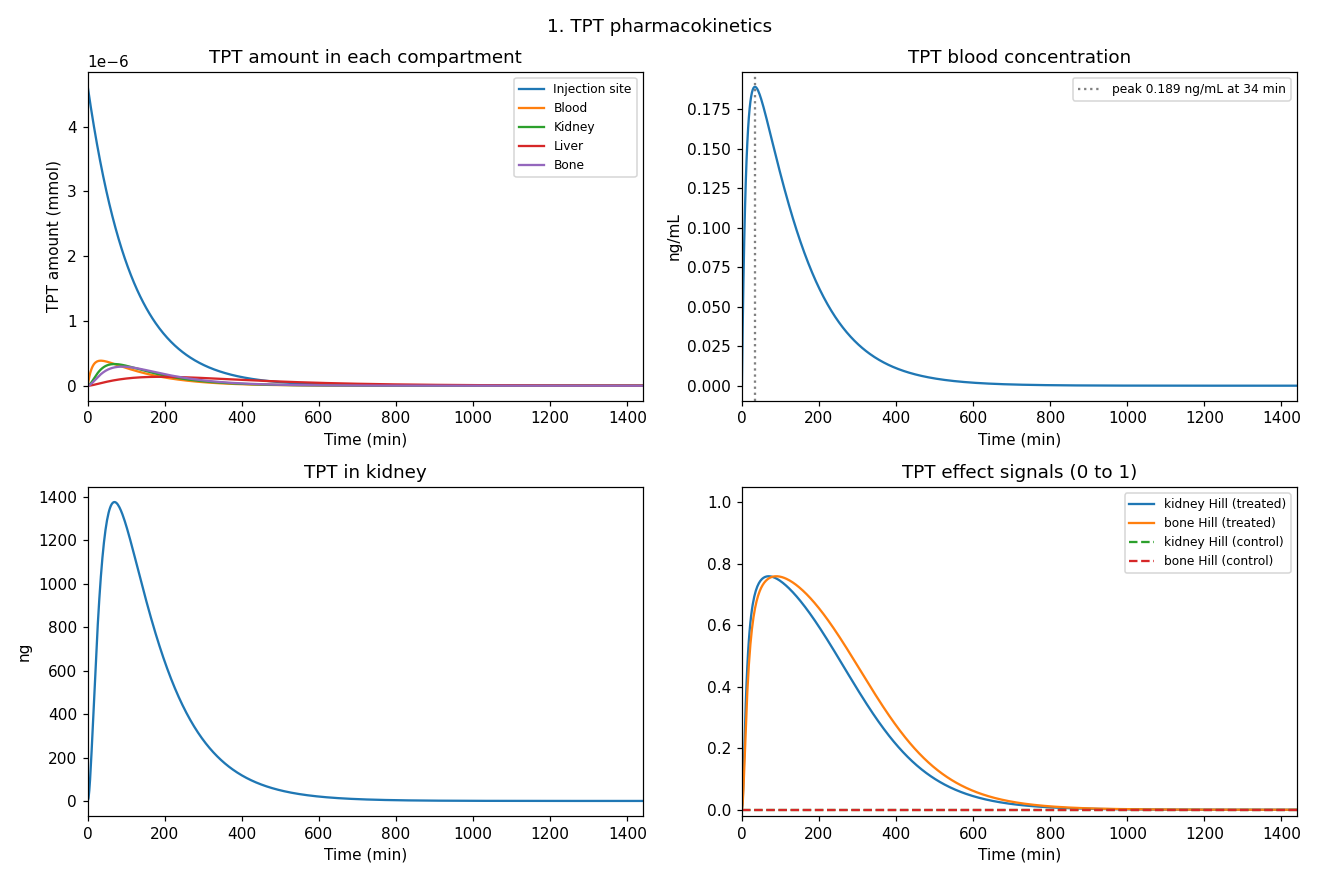
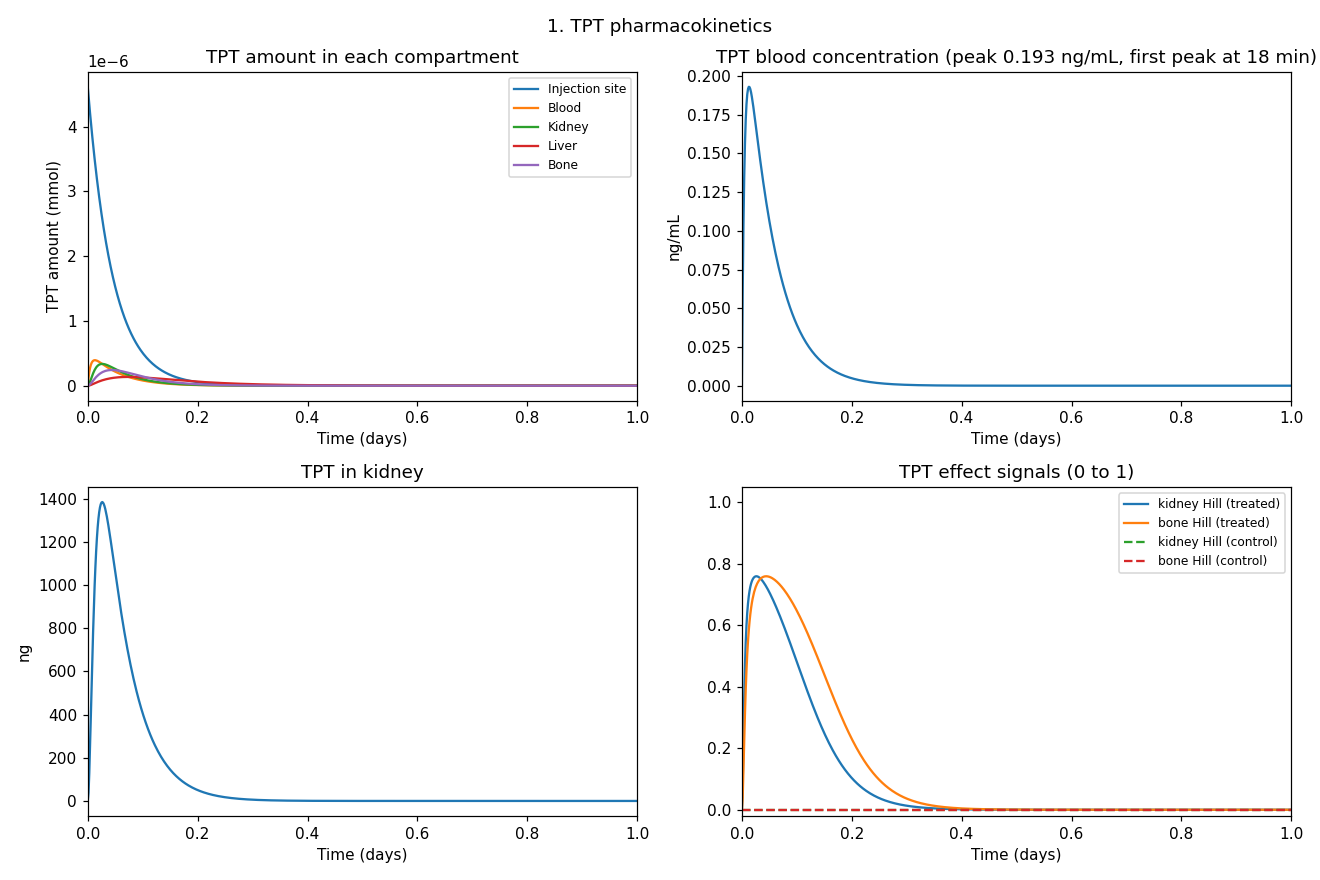
Struggling with graphs rn. Added gret market cases. Need units on images  to be min for tpt/calcitriol, and hours-days for more long terms effects.

diff --git a/Version 2/main.py b/Version 2/main.py
@@ -19,6 +19,7 @@ FLAGS FOR YOU: search this file for "ASSUMPTION" and "SWITCH"; they mark every i
 
 import importlib
 import math
+from types import SimpleNamespace
 
 import numpy as np
 
@@ -36,8 +37,8 @@ import calcium
 
 
 osteoporosis = False 
-renal_failure =True
-low_estrogen = False
+renal_failure =False
+grey_market = True 
 
 
 def apply_conditions():
@@ -58,8 +59,9 @@ def apply_conditions():
         calcitriol.basal_calcitriol_produce_kidney *= 14.2 / 31.8
         calcitriol.calcitriol_half_life /= 0.45 / 0.58
 
-    if low_estrogen is True:
-        print("Low estrogen has no assumed calcitriol parameter changes.")
+    if grey_market is True:
+        tpt.dose= tpt.dose*(np.random.uniform(0.07, 0.14))  # teriparatide grey market dose have been found to have only 7-14% of the original dose.
+        print("Grey market has no assumed calcitriol or calcium parameter changes.")
 
     # --- recompute derived TPT rates (same formulas as tpt.py) ---
     tpt.k_blood_to_kidney_TPT = tpt.frac_elim_kidney_TPT * tpt.k_elimination_TPT
@@ -95,9 +97,17 @@ apply_conditions()
 # =====================================================================
 # 0. SETTINGS  (the only things you should need to change here)
 # =====================================================================
-SIM_DAYS = 7                       # simulated time; long enough to see what TPT leaves behind in bone
+SIM_DAYS = 1                     # simulated time
 SIM_MINUTES = SIM_DAYS * 24 * 60
-PLOT_DETAIL_HOURS = 24             # the fast panels (TPT, calcitriol, blood Ca) zoom to this window; bone panels show all days
+# DOSING: one injection every DOSE_INTERVAL_MIN, starting at t = 0 (DOSE_SCALE below scales every dose).
+# The calibrations (Hill constants, calcitriol coefficient, Ca-effect scale) still use ONE reference dose, so
+# they describe a single injection and are not inflated by accumulation over several days.
+DOSE_INTERVAL_MIN = 24 * 60        # daily
+N_DOSES = SIM_DAYS                 # one per day for the whole run; set 1 for a single injection
+PLOT_DETAIL_DAYS = None            # daily-dosing figures (TPT, calcitriol): None = whole run; e.g. 2 zooms to the first 2 days
+# The calcium and bone-repair figures (3 and 4) come from a separate SINGLE-injection run with the same calibration.
+SINGLE_DOSE_DAYS = 7             # length of that run
+SINGLE_DOSE_DETAIL_HOURS = 24      # its fast panels (amounts, blood Ca) zoom to this window; bone panels show all days
 # SCENARIO: dose relative to the standard 20 ug injection (1.0 = reference dose, 1.35 = gray-market overdose)
 DOSE_SCALE = 1.0
 
@@ -225,12 +235,37 @@ def TPT_model(t, amounts):
     return [d_injection, d_blood, d_kidney, d_liver, d_bone, d_net]
 
 
-def solve_TPT(time_min, injection_scale):
-    """injection_scale = 1: injected run;  0: control (endogenous PTH only)."""
-    initial = list(tpt.initial_TPT)
-    initial[0] *= injection_scale
-    initial.append(0.0)                                  # cumulative net flux (last row of the solution)
-    return integrate(TPT_model, initial, time_min, atol=1e-18)
+def dose_times_min(time_min, n_doses=None):
+    """Injection times (min) inside the simulated window."""
+    times = np.arange(N_DOSES if n_doses is None else n_doses) * DOSE_INTERVAL_MIN
+    return times[times < time_min[-1]]
+
+
+def solve_TPT(time_min, injection_scale, n_doses=None):
+    """injection_scale = 1: injected run;  0: control (endogenous PTH only).
+    n_doses = None: the N_DOSES schedule;  1: a single dose (used for calibration).
+    The solver is restarted at every dose; each new dose is added to the injection site AND to the mass-balance
+    tracer (the last state), because it is an external input to the body."""
+    dose_amount = tpt.initial_TPT_injection * injection_scale
+    schedule = dose_times_min(time_min, n_doses)
+    state = list(tpt.initial_TPT) + [0.0]
+    state[0] = dose_amount if len(schedule) > 0 else 0.0                # first dose is already in the starting amount
+    bounds = list(schedule[1:]) + [time_min[-1]]
+    t_start, times, amounts = time_min[0], [], []
+    for i, t_end in enumerate(bounds):
+        seg_t = np.unique(np.concatenate(([t_start], time_min[(time_min >= t_start) & (time_min <= t_end)], [t_end])))
+        seg = integrate(TPT_model, state, seg_t, atol=1e-18)
+        last = i == len(bounds) - 1
+        times.append(seg.t if last else seg.t[:-1])                    # the boundary sample reappears, post-dose, as the next start
+        amounts.append(seg.y if last else seg.y[:, :-1])
+        state = seg.y[:, -1].copy()
+        if not last:
+            state[0] += dose_amount
+            state[5] += dose_amount
+            t_start = t_end
+    t_all, y_all = np.concatenate(times), np.concatenate(amounts, axis=1)
+    keep = np.isin(t_all, time_min)                                    # drop helper samples that are not on the output grid
+    return SimpleNamespace(t=t_all[keep], y=y_all[:, keep], success=True)
 
 
 # =====================================================================
@@ -416,7 +451,7 @@ def run_simulation(fixed=None):
     time_min = np.arange(0, SIM_MINUTES + STEP_MIN, STEP_MIN)
 
     # --- Model 1: TPT, treated and control -------------------------------------------------
-    TPT_reference = solve_TPT(time_min, 1.0)          # standard 20 ug dose; ONLY used to set H and k_increase
+    TPT_reference = solve_TPT(time_min, 1.0, n_doses=1)   # ONE standard 20 ug dose; ONLY used to set H and the calibrations
     TPT_treated = solve_TPT(time_min, DOSE_SCALE)     # the dose for this scenario
     TPT_control = solve_TPT(time_min, 0.0)            # no injection
     H = half_saturation(TPT_reference) if fixed is None else fixed["H"]   # set at the reference dose, then held fixed
@@ -441,7 +476,7 @@ def run_simulation(fixed=None):
     calcium_treated = solve_calcium(time_min, TPT_treated, calcitriol_treated, H)
     calcium_control = solve_calcium(time_min, TPT_control, calcitriol_control, H)
 
-    return dict(time=time_min, H=H, k_increase=k_increase, calibrated=calibrated, ca_scale=CA_EFFECT_SCALE,
+    return dict(time=time_min, n_doses=len(dose_times_min(time_min)), H=H, k_increase=k_increase, calibrated=calibrated, ca_scale=CA_EFFECT_SCALE,
                 TPT=TPT_treated, TPT_control=TPT_control,
                 calcitriol=calcitriol_treated, calcitriol_control=calcitriol_control,
                 calcium=calcium_treated, calcium_control=calcium_control)
@@ -461,11 +496,12 @@ def compute_outputs(sim):
     out["TPT_blood_concen_mmol_per_L"] = T.y[1] / tpt.Vol_blood_in_bone
     out["TPT_blood_concen_ng_per_mL"] = out["TPT_blood_concen_mmol_per_L"] * tpt.mol_weight_TPT * 1000
     out["TPT_peak_blood_concen_mmol_per_L"] = out["TPT_blood_concen_mmol_per_L"].max()
-    out["TPT_time_to_peak_min"] = t[np.argmax(out["TPT_blood_concen_mmol_per_L"])]
+    first = t <= DOSE_INTERVAL_MIN                                   # peak timing is read from the first dose only
+    out["TPT_time_to_peak_min"] = t[first][np.argmax(out["TPT_blood_concen_mmol_per_L"][first])]
     out["TPT_blood_AUC_mmol_min_per_L"] = TRAPEZOID(out["TPT_blood_concen_mmol_per_L"], t)
     out["total_TPT_mmol"] = T.y[:5].sum(axis=0)          # row 5 is the mass-balance tracer, not a compartment
     out["TPT_peak_kidney_mmol"] = T.y[2].max()
-    out["TPT_time_to_kidney_peak_min"] = t[np.argmax(T.y[2])]
+    out["TPT_time_to_kidney_peak_min"] = t[first][np.argmax(T.y[2][first])]
     out["TPT_kidney_ng"] = T.y[2] * tpt.mol_weight_TPT * 1e6   # mmol * mg/mmol = mg; 1 mg = 1e6 ng
 
     # Calcitriol and calcium concentrations, treated vs control
@@ -525,12 +561,18 @@ def print_summary(sim, out):
     print(f"TPT: peak blood {out['TPT_peak_blood_concen_mmol_per_L']*tpt.mol_weight_TPT*1000:.3f} ng/mL at {out['TPT_time_to_peak_min']} min")
     status = "calibrated" if sim["calibrated"] else "NOT calibrated (no solution found); using the value from calcitriol.py"
     print(f"Calcitriol: k_increase_calcitriol_produce_by_TPT = {sim['k_increase']:.4g} ({status}; file value {calcitriol.k_increase_calcitriol_produce_by_TPT})")
-    print(f"  peak treated/control = {np.max(out['calcitriol_blood_pg_per_mL']/out['calcitriol_blood_control_pg_per_mL']):.2f} (target {CALCITRIOL_RISE_TARGET})")
+    ratio = out['calcitriol_blood_pg_per_mL'] / out['calcitriol_blood_control_pg_per_mL']
+    print(f"  peak treated/control, first dose = {np.max(ratio[t <= DOSE_INTERVAL_MIN]):.2f} (target {CALCITRIOL_RISE_TARGET}); over all doses {np.max(ratio):.2f}")
     print(f"  CONTROL drift: blood calcitriol {out['calcitriol_blood_control_pg_per_mL'][0]:.1f} -> {out['calcitriol_blood_control_pg_per_mL'][-1]:.1f} pg/mL over the run (basal level {calcium.calcitriol_basal_level*1e6:.1f})")
     ca_c = out["Ca_blood_control_mg_per_L"]
     print(f"Calcium: CONTROL drift: blood Ca {ca_c[0]/10:.2f} -> {ca_c[-1]/10:.2f} mg/dL over the run")
     effect = out["Ca_blood_TPT_effect_mg_per_dL"]
-    print(f"  TPT effect on blood Ca (treated - control): peak {effect.max():+.3f} mg/dL at {t[np.argmax(effect)]/60:.1f} h (label ~ +{LABEL_CALCIUM_PEAK_RISE_MG_PER_DL})")
+    first, final = t <= DOSE_INTERVAL_MIN, t >= t[-1] - DOSE_INTERVAL_MIN
+    print(f"  TPT effect on blood Ca (treated - control), first dose: peak {effect[first].max():+.3f} mg/dL at {t[first][np.argmax(effect[first])]/60:.1f} h (label ~ +{LABEL_CALCIUM_PEAK_RISE_MG_PER_DL})")
+    print(f"  Doses: {sim['n_doses']} x every {DOSE_INTERVAL_MIN/60:.0f} h | final cycle: Ca rise peak {effect[final].max():+.3f}, trough {effect[final].min():+.3f} mg/dL"
+          f" | blood calcitriol peak {out['calcitriol_blood_pg_per_mL'][final].max():.1f}, trough {out['calcitriol_blood_pg_per_mL'][final].min():.1f} pg/mL")
+    bone_eff = out['bone_Ca_levels_TPT_effect']
+    print(f"  Bone Ca gained per day in the final cycle: {bone_eff[-1] - bone_eff[final][0]:+.1f} mg")
     print(f"  TPT effect on bone Ca after {t[-1]/1440:.0f} days: {out['bone_Ca_levels_TPT_effect'][-1]:+.1f} mg "
           f"(extra formation {out['extra_formation_mg'][-1]:+.1f} mg, extra release {out['extra_release_mg'][-1]:.1f} mg lost; "
           f"peak ALP rise {out['ALP_increase_pct'].max():.0f}%)")
@@ -547,82 +589,97 @@ def print_summary(sim, out):
 # =====================================================================
 # 7. PLOTS
 # =====================================================================
-def make_plots(sim, out):
+def make_plots_daily(sim, out):
+    """Figures 1-2 (TPT, calcitriol) from the daily-dosing run."""
     t, T, Tc = sim["time"], sim["TPT"], sim["TPT_control"]
-    C, A, Ac = sim["calcitriol"], sim["calcium"], sim["calcium_control"]
-    h = t / 60
-    d = t / 1440                                   # days, for the long bone panels
-    detail_min, detail_h = PLOT_DETAIL_HOURS * 60, PLOT_DETAIL_HOURS
+    C = sim["calcitriol"]
+    d = t / 1440                                               # every x-axis is in days
+    xmax = PLOT_DETAIL_DAYS if PLOT_DETAIL_DAYS else d[-1]
+    doses = dose_times_min(t, sim["n_doses"]) / 1440
     figures = {}
+
+    def finish(axes, xlabel="Time (days)"):
+        """Common x-range, label and faint vertical lines at each injection."""
+        for a in np.ravel(axes):
+            a.set_xlim(0, xmax)
+            a.set_xlabel(xlabel)
+            for x in doses[doses <= xmax]:
+                a.axvline(x, color="gray", lw=0.4, alpha=0.35, zorder=0)
 
     # ---- Figure 1: TPT pharmacokinetics ----------------------------------------------------
     fig, ax = plt.subplots(2, 2, figsize=(12, 8))
     for index, label in enumerate(["Injection site", "Blood", "Kidney", "Liver", "Bone"]):
-        ax[0, 0].plot(t, T.y[index], label=label)
-    ax[0, 0].set(title="TPT amount in each compartment", xlabel="Time (min)", ylabel="TPT amount (mmol)")
+        ax[0, 0].plot(d, T.y[index], label=label)
+    ax[0, 0].set(title="TPT amount in each compartment", ylabel="TPT amount (mmol)")
     ax[0, 0].legend(fontsize=8)
-    ax[0, 1].plot(t, out["TPT_blood_concen_ng_per_mL"])
-    peak_t = out["TPT_time_to_peak_min"]                       # time of peak blood TPT (min)
-    peak_c = np.max(out["TPT_blood_concen_ng_per_mL"])         # peak blood TPT (ng/mL)
-    ax[0, 1].axvline(peak_t, color="gray", ls=":", label=f"peak {peak_c:.3f} ng/mL at {peak_t:.0f} min")
-    ax[0, 1].set(title="TPT blood concentration", xlabel="Time (min)", ylabel="ng/mL")
-    ax[0, 1].legend(fontsize=8)
-    ax[1, 0].plot(t, out["TPT_kidney_ng"])
-    ax[1, 0].set(title="TPT in kidney", xlabel="Time (min)", ylabel="ng")
-    ax[1, 1].plot(t, out["rates"]["hill_kidney"], label="kidney Hill (treated)")
-    ax[1, 1].plot(t, out["rates"]["hill_bone"], label="bone Hill (treated)")
-    ax[1, 1].plot(t, out["rates_control"]["hill_kidney"], "--", label="kidney Hill (control)")
-    ax[1, 1].plot(t, out["rates_control"]["hill_bone"], "--", label="bone Hill (control)")
-    ax[1, 1].set(title="TPT effect signals (0 to 1)", xlabel="Time (min)", ylim=(-0.02, 1.05))
+    ax[0, 1].plot(d, out["TPT_blood_concen_ng_per_mL"])
+    peak_c = np.max(out["TPT_blood_concen_ng_per_mL"])
+    ax[0, 1].set(title=f"TPT blood concentration (peak {peak_c:.3f} ng/mL, first peak at {out['TPT_time_to_peak_min']:.0f} min)", ylabel="ng/mL")
+    ax[1, 0].plot(d, out["TPT_kidney_ng"])
+    ax[1, 0].set(title="TPT in kidney", ylabel="ng")
+    ax[1, 1].plot(d, out["rates"]["hill_kidney"], label="kidney Hill (treated)")
+    ax[1, 1].plot(d, out["rates"]["hill_bone"], label="bone Hill (treated)")
+    ax[1, 1].plot(d, out["rates_control"]["hill_kidney"], "--", label="kidney Hill (control)")
+    ax[1, 1].plot(d, out["rates_control"]["hill_bone"], "--", label="bone Hill (control)")
+    ax[1, 1].set(title="TPT effect signals (0 to 1)", ylim=(-0.02, 1.05))
     ax[1, 1].legend(fontsize=8)
-    for a in ax.flat:
-        a.set_xlim(0, detail_min)
+    finish(ax)
     fig.suptitle("1. TPT pharmacokinetics"); fig.tight_layout(); figures["1_TPT"] = fig
 
     # ---- Figure 2: calcitriol ---------------------------------------------------------------
     fig, ax = plt.subplots(1, 3, figsize=(16, 4.5))
     for index, label in enumerate(["Kidney", "Blood", "Liver", "Gut"]):
-        ax[0].plot(t, C.y[index], label=label)
-    ax[0].set(title="Calcitriol amount (treated)", xlabel="Time (min)", ylabel="mg"); ax[0].legend(fontsize=8)
-    ax[1].plot(h, out["calcitriol_blood_pg_per_mL"], label="treated")
-    ax[1].plot(h, out["calcitriol_blood_control_pg_per_mL"], "--", label="control")
+        ax[0].plot(d, C.y[index], label=label)
+    ax[0].set(title="Calcitriol amount (treated)", ylabel="mg"); ax[0].legend(fontsize=8)
+    ax[1].plot(d, out["calcitriol_blood_pg_per_mL"], label="treated")
+    ax[1].plot(d, out["calcitriol_blood_control_pg_per_mL"], "--", label="control")
     ax[1].axhline(calcium.calcitriol_basal_level * 1e6, color="gray", lw=0.7, label="basal level")
-    ax[1].set(title="Blood calcitriol", xlabel="Time (h)", ylabel="pg/mL"); ax[1].legend(fontsize=8)
-    ax[2].plot(h, out["rates"]["calcitriol_impact"], label="treated")
-    ax[2].plot(h, out["rates_control"]["calcitriol_impact"], "--", label="control")
-    ax[2].set(title="Calcitriol effect on gut absorption (1 = basal)", xlabel="Time (h)", ylabel="Multiplier (k)"); ax[2].legend(fontsize=8)
-    ax[0].set_xlim(0, detail_min); ax[1].set_xlim(0, detail_h); ax[2].set_xlim(0, detail_h)
+    ax[1].set(title="Blood calcitriol", ylabel="pg/mL"); ax[1].legend(fontsize=8)
+    ax[2].plot(d, out["rates"]["calcitriol_impact"], label="treated")
+    ax[2].plot(d, out["rates_control"]["calcitriol_impact"], "--", label="control")
+    ax[2].set(title="Calcitriol effect on gut absorption (1 = basal)", ylabel="Multiplier (k)"); ax[2].legend(fontsize=8)
+    finish(ax)
     fig.suptitle("2. Calcitriol"); fig.tight_layout(); figures["2_calcitriol"] = fig
+
+    return figures
+
+
+def make_plots_single(sim, out):
+    """Figures 3-4 (calcium, bone repair) from the single-injection run: fast panels zoomed, bone panels in days."""
+    t = sim["time"]
+    A, Ac = sim["calcium"], sim["calcium_control"]
+    h, d = t / 60, t / 1440
+    dm, dh = SINGLE_DOSE_DETAIL_HOURS * 60, SINGLE_DOSE_DETAIL_HOURS
+    figures = {}
 
     # ---- Figure 3: calcium ------------------------------------------------------------------
     fig, ax = plt.subplots(2, 2, figsize=(12, 8))
     for index, label in enumerate(["Intake", "Gut", "Blood", "Kidney"]):
         ax[0, 0].plot(t, A.y[index], label=label)
-    ax[0, 0].set(title="Calcium amount, treated (bone shown separately)", xlabel="Time (min)", ylabel="mg")
+    ax[0, 0].set(title="Calcium amount, treated (bone shown separately)", xlabel="Time (min)", ylabel="mg", xlim=(0, dm))
     ax[0, 0].legend(fontsize=8)
     ax[0, 1].plot(d, A.y[4], label="treated")
     ax[0, 1].plot(d, Ac.y[4], "--", label="control")
     lo, hi = min(A.y[4].min(), Ac.y[4].min()), max(A.y[4].max(), Ac.y[4].max())
-    pad = max(0.15 * (hi - lo), 1.0)                      # zoom the y-axis so the (small) difference is visible
+    pad = max(0.15 * (hi - lo), 1.0)                          # zoom the y-axis so the (small) difference is visible
     ax[0, 1].set_ylim(lo - pad, hi + pad)
     ax[0, 1].ticklabel_format(axis="y", style="plain", useOffset=False)
     ax[0, 1].set(title="Bone calcium: treated vs control (y-axis zoomed)", xlabel="Time (days)", ylabel="mg")
     ax[0, 1].legend(fontsize=8)
     ax[1, 0].plot(h, out["Ca_blood_concen_mg_per_L"] / 10, label="treated")
     ax[1, 0].plot(h, out["Ca_blood_control_mg_per_L"] / 10, "--", label="control")
-    ax[1, 0].set(title="Blood calcium", xlabel="Time (h)", ylabel="mg/dL"); ax[1, 0].legend(fontsize=8)
+    ax[1, 0].set(title="Blood calcium", xlabel="Time (h)", ylabel="mg/dL", xlim=(0, dh)); ax[1, 0].legend(fontsize=8)
     ax[1, 1].plot(h, out["Ca_blood_TPT_effect_mg_per_dL"])
     ax[1, 1].axhline(LABEL_CALCIUM_PEAK_RISE_MG_PER_DL, color="gray", ls=":", label="label peak (+0.4)")
-    ax[1, 1].set(title="TPT effect on blood calcium levels", xlabel="Time (h)", ylabel="mg/dL")
+    ax[1, 1].set(title="TPT effect on blood calcium levels", xlabel="Time (h)", ylabel="mg/dL", xlim=(0, dh))
     ax[1, 1].legend(fontsize=8)
-    ax[0, 0].set_xlim(0, detail_min); ax[1, 0].set_xlim(0, detail_h); ax[1, 1].set_xlim(0, detail_h)
-    fig.suptitle("3. Calcium"); fig.tight_layout(); figures["3_calcium"] = fig
+    fig.suptitle("3. Calcium (single injection)"); fig.tight_layout(); figures["3_calcium"] = fig
 
     # ---- Figure 4: bone repair (ALP-driven formation) vs resorption ---------------------------
     fig, ax = plt.subplots(2, 2, figsize=(12, 8))
     ax[0, 0].plot(h, out["ALP_increase_pct"], color="tab:green", label="ALP increase (%)")
     ax[0, 0].set(title=f"ALP rise driven by elevated blood Ca (max {ALP_MAX_INCREASE*100:.0f}%)", xlabel="Time (h)",
-                 ylabel="ALP increase vs baseline (%)", xlim=(0, detail_h))
+                 ylabel="ALP increase vs baseline (%)", xlim=(0, dh))
     twin = ax[0, 0].twinx()
     twin.plot(h, out["Ca_blood_TPT_effect_mg_per_dL"], color="tab:red", ls="--", label="blood Ca rise")
     twin.set_ylabel("Blood Ca rise (mg/dL)")
@@ -631,7 +688,7 @@ def make_plots(sim, out):
     ax[0, 1].plot(h, out["bone_formation_flux_control"] * 60, "--", label="formation, control")
     ax[0, 1].plot(h, out["bone_release_flux"] * 60, label="release (resorption), treated")
     ax[0, 1].plot(h, out["bone_release_flux_control"] * 60, "--", label="release, control")
-    ax[0, 1].set(title="Bone calcium fluxes", xlabel="Time (h)", ylabel="mg Ca per hour", xlim=(0, detail_h))
+    ax[0, 1].set(title="Bone calcium fluxes", xlabel="Time (h)", ylabel="mg Ca per hour", xlim=(0, dh))
     ax[0, 1].legend(fontsize=8)
     ax[1, 0].plot(d, out["extra_formation_mg"], label="extra formation (repair)")
     ax[1, 0].plot(d, -out["extra_release_mg"], label="extra release (resorption), shown negative")
@@ -642,8 +699,26 @@ def make_plots(sim, out):
     ax[1, 1].plot(d, out["bone_Ca_levels_TPT_effect"])
     ax[1, 1].axhline(0, color="gray", lw=0.7)
     ax[1, 1].set(title="Net bone calcium change (treated - control)", xlabel="Time (days)", ylabel="mg")
-    fig.suptitle("4. Bone repair vs resorption"); fig.tight_layout(); figures["4_bone"] = fig
+    fig.suptitle("4. Bone repair vs resorption (single injection)"); fig.tight_layout(); figures["4_bone"] = fig
+    return figures
 
+
+def run_single_dose_view(daily_sim):
+    """One injection over SINGLE_DOSE_DAYS, reusing the daily run's calibration so both views describe the same model."""
+    global SIM_MINUTES, N_DOSES
+    saved = SIM_MINUTES, N_DOSES
+    SIM_MINUTES, N_DOSES = SINGLE_DOSE_DAYS * 24 * 60, 1
+    try:
+        fixed = dict(H=daily_sim["H"], k_increase=daily_sim["k_increase"], ca_scale=daily_sim["ca_scale"])
+        sim = run_simulation(fixed)
+        return sim, compute_outputs(sim)
+    finally:
+        SIM_MINUTES, N_DOSES = saved
+
+
+def make_plots(sim, out, sim1, out1):
+    """TPT and calcitriol figures from the daily run (sim, out); calcium and bone figures from the single dose (sim1, out1)."""
+    figures = {**make_plots_daily(sim, out), **make_plots_single(sim1, out1)}
     if SAVE_FIGURES:
         for name, fig in figures.items():
             fig.savefig(f"fig_{name}.png", dpi=110)
@@ -680,7 +755,8 @@ def run_monte_carlo():
                 r = results[name]
                 r["TPT peak (ng/mL)"].append(np.max(out["TPT_blood_concen_ng_per_mL"]))
                 r["Ca rise peak (mg/dL)"].append(np.max(effect))
-                r["Ca peak time (h)"].append(sim["time"][np.argmax(effect)] / 60)
+                first = sim["time"] <= DOSE_INTERVAL_MIN                    # timing of the first-dose peak
+                r["Ca peak time (h)"].append(sim["time"][first][np.argmax(effect[first])] / 60)
                 r["calcitriol peak (x baseline)"].append(np.max(out["calcitriol_blood_pg_per_mL"]
                                                                 / out["calcitriol_blood_control_pg_per_mL"]))
         except (ValueError, RuntimeError) as error:  # a draw that cannot be calibrated is skipped and reported
@@ -707,10 +783,14 @@ def run_monte_carlo():
 # 9. RUN
 # =====================================================================
 if __name__ == "__main__":
-    simulation = run_simulation()
+    simulation = run_simulation()                      # daily dosing
     outputs = compute_outputs(simulation)
+    print(f"DAILY DOSING, {SIM_DAYS} days  (TPT and calcitriol figures)")
     print_summary(simulation, outputs)
-    make_plots(simulation, outputs)
+    single_sim, single_out = run_single_dose_view(simulation)
+    print(f"SINGLE INJECTION, {SINGLE_DOSE_DAYS} days  (calcium and bone-repair figures)")
+    print_summary(single_sim, single_out)
+    make_plots(simulation, outputs, single_sim, single_out)
     if RUN_MONTE_CARLO:
         run_monte_carlo()
     plt.show()
